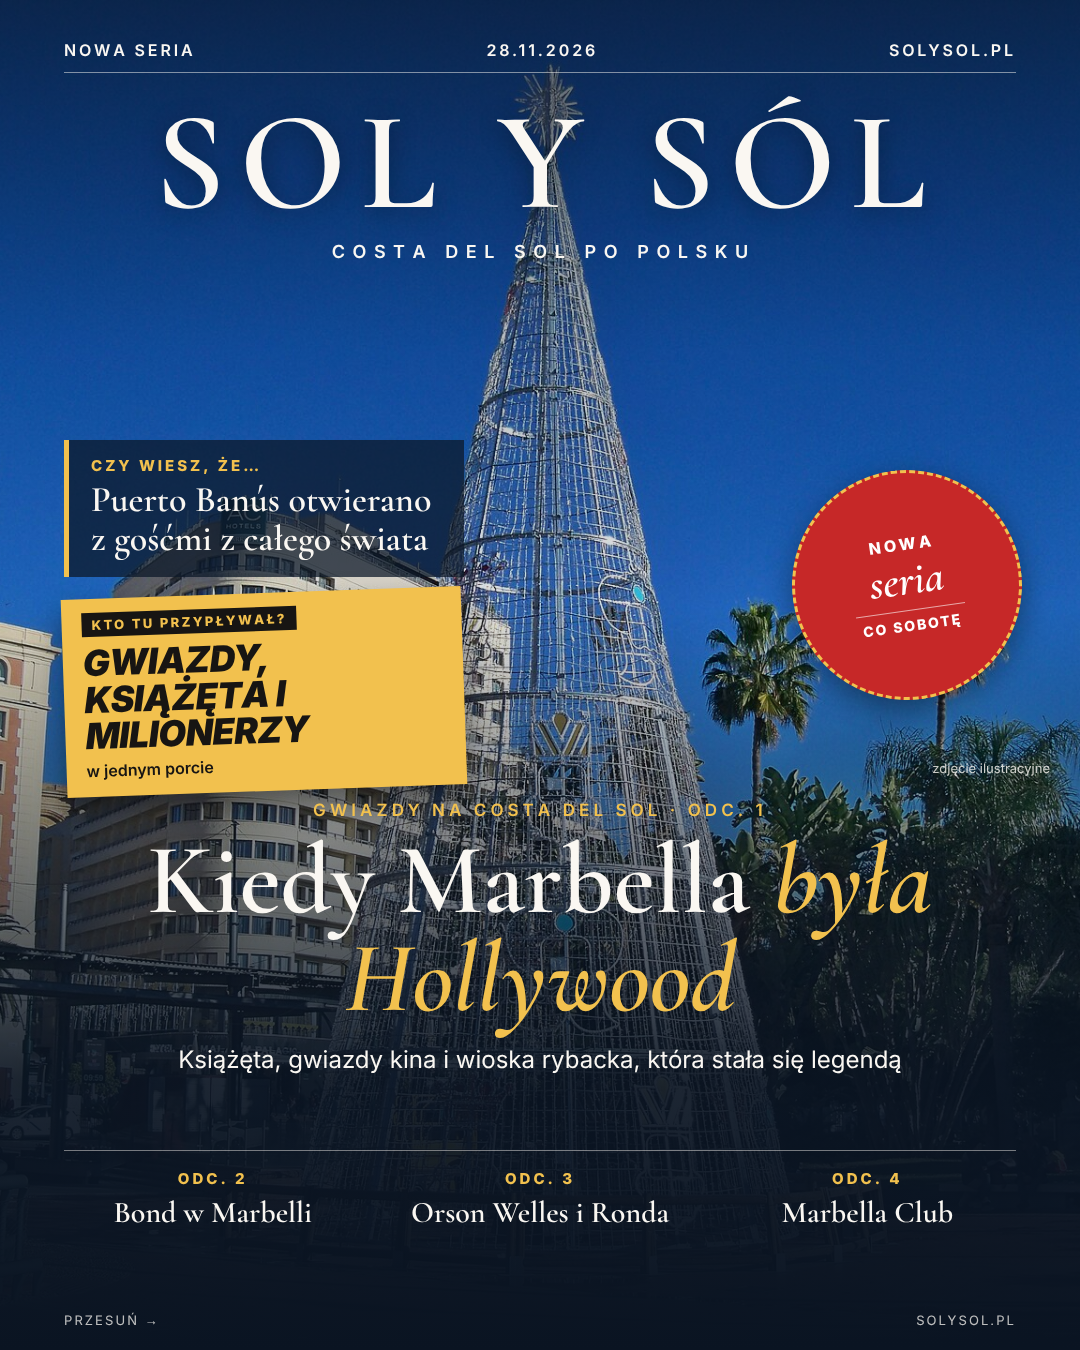
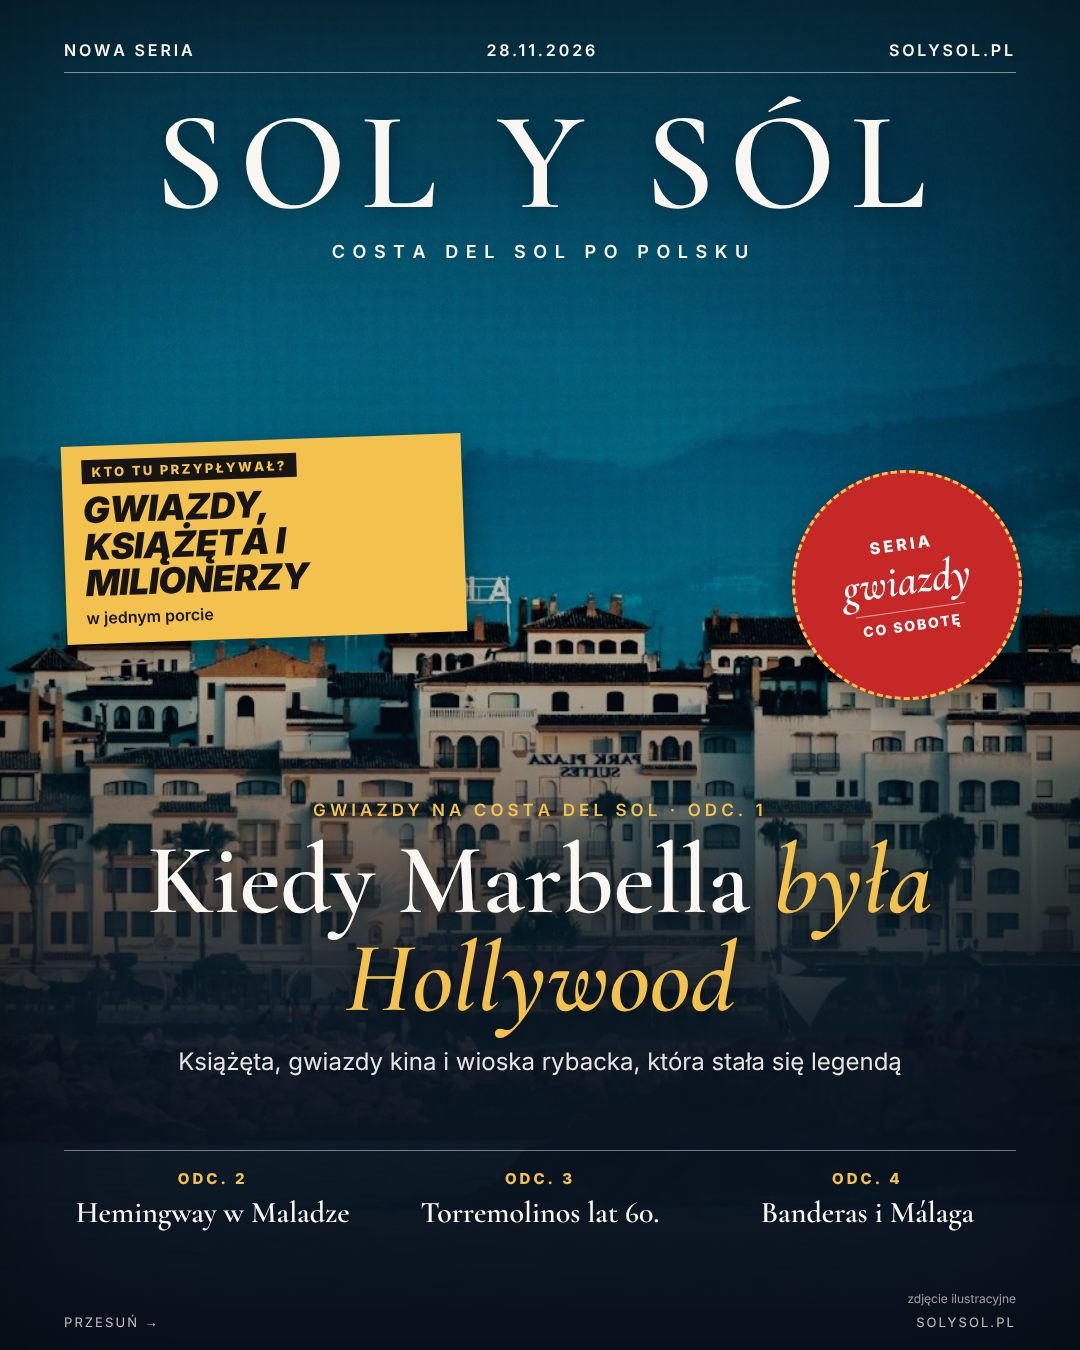
Barwna: poprawki czytelności, max 3 akcenty; miniatura #5 z odwróconym zdjęciem
Claude-Session: https://claude.ai/code/session_015HGgnazZvgWv1Pe4sbRNCm

diff --git a/_tools/barwna.py b/_tools/barwna.py
@@ -23,16 +23,17 @@ def cover(photo_url, pos='50% 50%', credit='', head='', teaser='', desk='', mast
     return f"""<!doctype html><html><head><meta charset=utf-8><style>{FONTS}*{{box-sizing:border-box;margin:0}}html,body{{width:1080px;height:1350px;overflow:hidden;font-family:IN,sans-serif;background:#0A1422;color:#FAF7F2}}</style></head><body>
 <div style="position:absolute;inset:0;background:url('{photo_url}') {pos}/cover;filter:saturate(1.15)"></div>
 <div style="position:absolute;inset:0;background:linear-gradient(180deg,rgba(10,20,34,.72) 0%,rgba(10,20,34,.25) 26%,rgba(10,20,34,.12) 45%,rgba(10,20,34,.5) 62%,rgba(10,20,34,.92) 80%,#0A1422 100%)"></div>
+<div style="position:absolute;inset:0;box-shadow:inset 0 0 180px rgba(0,0,0,.45)"></div>
 <div style="position:absolute;left:64px;right:64px;top:40px;text-align:center">
 <div style="display:flex;justify-content:space-between;font-size:16px;font-weight:600;letter-spacing:.18em;padding-bottom:12px;border-bottom:1px solid rgba(250,247,242,.5)"><span>{_h.escape(mast)}</span><span>{_h.escape(date)}</span><span>SOLYSOL.PL</span></div>
 <div style="{CG}font-size:140px;font-weight:600;line-height:1;letter-spacing:.1em;margin-top:20px;padding-left:.1em;text-shadow:0 4px 24px rgba(0,0,0,.35)">SOL Y SÓL</div>
 <div style="font-size:18px;font-weight:600;letter-spacing:.42em;margin-top:8px;padding-left:.42em">COSTA DEL SOL PO POLSKU</div></div>
 <div style="position:absolute;left:64px;top:{btop}px">{bx}</div>{sl}
-<div style="position:absolute;right:30px;top:{htop-40}px;font-size:13px;opacity:.8">{_h.escape(credit)}</div>
+<div style="position:absolute;right:64px;bottom:44px;font-size:12px;opacity:.6">{_h.escape(credit)}</div>
 <div style="position:absolute;left:50px;right:50px;top:{htop}px;text-align:center">
 <div style="font-size:17px;font-weight:600;letter-spacing:.24em;color:{acc}">{desk}</div>
-<div style="{CG}font-size:{hsize}px;font-weight:600;line-height:.98;margin-top:12px">{head}</div>
-<div style="font-size:24px;margin-top:16px;line-height:1.35">{teaser}</div></div>
+<div style="{CG}font-size:{hsize}px;font-weight:600;line-height:.98;margin-top:12px;text-shadow:0 4px 22px rgba(0,0,0,.55)">{head}</div>
+<div style="font-size:24px;margin:18px auto 0;line-height:1.35;max-width:820px;opacity:.92">{teaser}</div></div>
 {('<div style="position:absolute;left:64px;right:64px;top:1150px;border-top:1px solid rgba(250,247,242,.45);padding-top:18px;display:flex;gap:30px">' + low + '</div>') if low else ''}
-<div style="position:absolute;left:64px;right:64px;bottom:22px;display:flex;justify-content:space-between;font-size:13px;letter-spacing:.16em;opacity:.75"><span>PRZESUŃ  →</span><span>SOLYSOL.PL</span></div>
+<div style="position:absolute;left:64px;right:64px;bottom:20px;display:flex;justify-content:space-between;font-size:13px;letter-spacing:.16em;opacity:.75"><span>PRZESUŃ  →</span><span>SOLYSOL.PL</span></div>
 </body></html>"""

diff --git a/_tools/STYL_SIATKI.md b/_tools/STYL_SIATKI.md
@@ -16,3 +16,4 @@ Cel: profil ma wyglądać jak jeden magazyn, nie jak zbiór różnych szablonów
 9. Nowy styl **barwna** (_tools/barwna.py, funkcja cover): KOLOROWE pełne zdjęcie, duża winieta SOL Y SÓL, granatowa i żółta ramka, czerwona pieczęć, tytuł Cormorant ze złotą kursywą – jak okładka wydania specjalnego „Święta 2026”. Wzór: _assets/canva/wzor-barwna.png.
 10. Rytm siatki: co TRZECIA okładka Sol y Sól (karuzela, artykuł, okładka reela) w stylu barwna, reszta noir. Zdjęcie do barwnej musi być jasne i nasycone (niebo, morze, światła) – nigdy czarno-białe.
 11. Seria „Gwiazdy na Costa del Sol” (soboty 18:00) – okładka ZAWSZE barwna. Zdjęć znanych osób nie pobieramy: na okładce i slajdach zostaje miejsce (ramka „ZDJĘCIE – DODA REDAKCJA”), Oliwia wstawia je w Canvie.
+12. Barwna – maks. 3 akcenty na okładce: tytuł + JEDNA ramka (box1 albo box2) + pieczęć. Obie ramki naraz tylko na okładkach serii/wydań. Pasek „more” tylko przy seriach.
